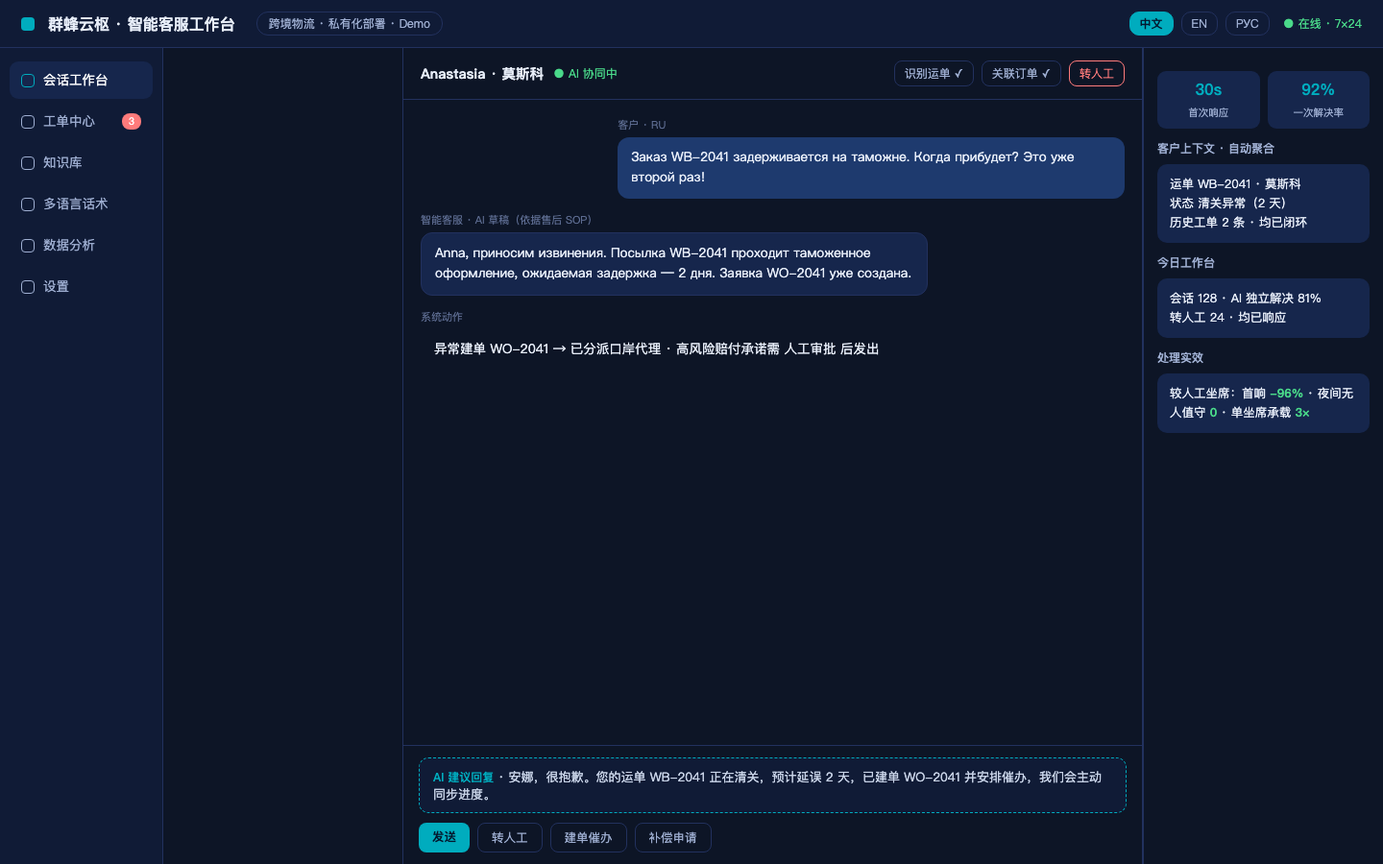
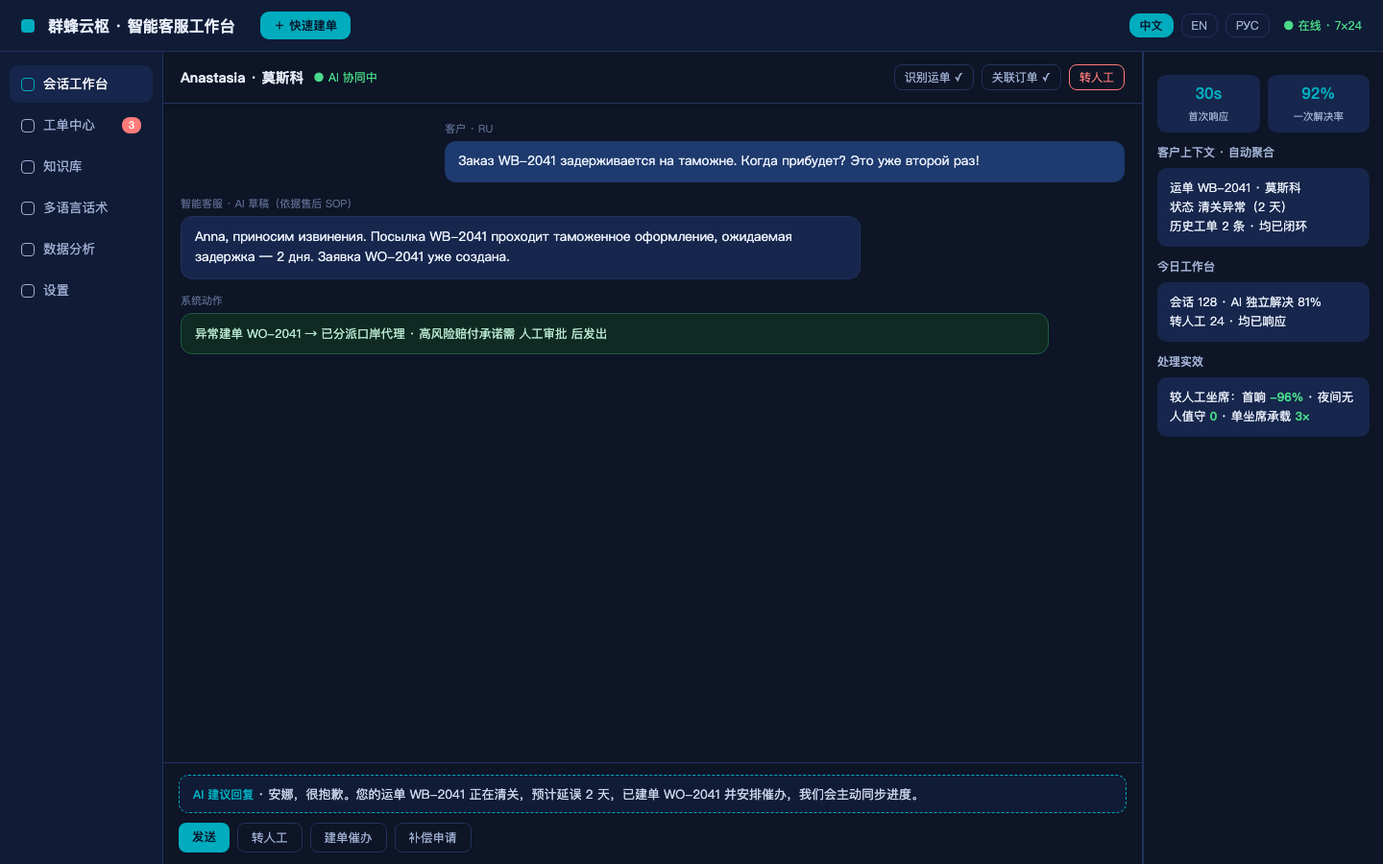
feat(demos): scenario-1-cs 数据分析视图 + AI 快速建单（去空栏/去 head 标语）

diff --git a/demos/scenario-1-cs.html b/demos/scenario-1-cs.html
@@ -1,40 +1,37 @@
 <!DOCTYPE html><html lang="zh"><head><meta charset="utf-8"><title>群蜂云枢 · 智能客服工作台</title>
 <style>
-:root{--bg:#0D1526;--pan:#101B36;--pan2:#16264C;--bd:#22315E;--ac:#00ACBE;--tx:#E8EEF9;--mut:#9FAFD2}
+:root{--bg:#0D1526;--pan:#101B36;--pan2:#16264C;--bd:#22315E;--ac:#00ACBE;--tx:#E8EEF9;--mut:#9FAFD2;--ok:#4AD98A;--warn:#FF7B7B;--gold:#FFC539}
 *{margin:0;padding:0;box-sizing:border-box;font-family:-apple-system,'PingFang SC','Microsoft YaHei',sans-serif}
 body{background:var(--bg);color:var(--tx);height:100vh;display:flex;flex-direction:column;overflow:hidden}
 .top{display:flex;align-items:center;gap:14px;background:var(--pan);padding:12px 22px;border-bottom:1px solid var(--bd)}
 .logo{width:14px;height:14px;background:var(--ac);border-radius:4px}
-.top b{font-size:16px}.env{font-size:12px;color:var(--mut);border:1px solid var(--bd);border-radius:12px;padding:3px 12px;margin-left:8px}
+.top b{font-size:16px}
 .langs{margin-left:auto;display:flex;gap:8px;font-size:12px}
 .langs span{padding:3px 10px;border-radius:10px;border:1px solid var(--bd);color:var(--mut);cursor:pointer}
 .langs span.on{background:var(--ac);color:#04182E;font-weight:700;border-color:var(--ac)}
-.online{font-size:12px;color:#4AD98A}
+.online{font-size:12px;color:var(--ok)}
+.qbtn{font-size:12.5px;font-weight:700;background:var(--ac);color:#04182E;border-radius:9px;padding:6px 14px;cursor:pointer;margin-left:12px}
+.qbtn:hover{filter:brightness(1.08)}
 .wrap{display:flex;flex:1;min-height:0}
 .side{width:170px;background:var(--pan);border-right:1px solid var(--bd);padding:14px 10px}
 .side div{display:flex;align-items:center;gap:9px;padding:10px 12px;border-radius:9px;font-size:13.5px;color:var(--mut);margin-bottom:4px;cursor:pointer}
-.side div i{width:14px;height:14px;border:1.6px solid var(--mut);border-radius:4px}
-.side div.on{background:#16264C;color:#fff}.side div.on i{border-color:var(--ac)}
-.side div .bdg{margin-left:auto;background:#FF7B7B;color:#fff;font-size:10.5px;border-radius:8px;padding:1px 7px}
-.conv{width:250px;border-right:1px solid var(--bd);overflow:auto;padding:12px}
-.cv{background:var(--pan2);border-radius:12px;padding:12px 14px;margin-bottom:10px;cursor:pointer}
-.cv.on{border:1px solid var(--ac)}
-.cv .n{font-size:13.5px;font-weight:700}.cv .n i{font-style:normal;font-size:10.5px;color:#0D1526;background:#FFC539;border-radius:6px;padding:1px 6px;margin-left:6px;font-weight:700}
-.cv .m{font-size:12px;color:var(--mut);margin-top:5px;white-space:nowrap;overflow:hidden;text-overflow:ellipsis}
-.cv .t{font-size:11px;color:#5E6D92;margin-top:4px}
-.chat{flex:1;display:flex;flex-direction:column;border-right:1px solid var(--bd)}
+.side div i{width:14px;height:14px;border:1.6px solid var(--mut);border-radius:4px;flex:none}
+.side div.on{background:var(--pan2);color:#fff}.side div.on i{border-color:var(--ac)}
+.side div .bdg{margin-left:auto;background:var(--warn);color:#fff;font-size:10.5px;border-radius:8px;padding:1px 7px}
+.view{flex:1;display:flex;min-width:0}
+.chat{flex:1;display:flex;flex-direction:column;border-right:1px solid var(--bd);min-width:0}
 .chead{padding:13px 18px;border-bottom:1px solid var(--bd);display:flex;align-items:center;gap:10px}
-.chead b{font-size:14.5px}.chead .st{font-size:12px;color:#4AD98A}
+.chead b{font-size:14.5px}.chead .st{font-size:12px;color:var(--ok)}
 .chead .act{margin-left:auto;display:flex;gap:8px}
 .chead .act span{font-size:12px;border:1px solid var(--bd);border-radius:8px;padding:4px 10px;color:var(--mut);cursor:pointer}
-.chead .act span.hot{border-color:#FF7B7B;color:#FF7B7B}
+.chead .act span.hot{border-color:var(--warn);color:var(--warn)}
 .msgs{flex:1;padding:18px;overflow:auto}
 .m{max-width:72%;margin-bottom:14px;font-size:13.5px;line-height:1.55}
 .m .who{font-size:11px;color:#5E6D92;margin-bottom:4px}
 .m .b{border-radius:12px;padding:11px 14px}
 .m.cu{margin-left:auto}.m.cu .b{background:#1E3A6E}
 .m.ai .b{background:var(--pan2);border:1px solid var(--bd)}
-.m.ai .sop{margin-top:8px;font-size:11.5px;color:#4AD98A}
+.m.sys{max-width:92%}.m.sys .b{background:#0F2A22;border:1px solid #1F5C44;color:#B9E8D2;font-size:12.5px}
 .composer{border-top:1px solid var(--bd);padding:12px 16px}
 .ai-draft{background:var(--pan);border:1px dashed var(--ac);border-radius:10px;padding:10px 14px;font-size:13px;color:#C9D4E8;margin-bottom:10px}
 .ai-draft b{color:var(--ac);font-size:12px}
@@ -49,26 +46,103 @@ body{background:var(--bg);color:var(--tx);height:100vh;display:flex;flex-directi
 .strips{display:flex;gap:8px;margin-top:10px}
 .strip{flex:1;background:var(--pan2);border-radius:9px;padding:8px;text-align:center}
 .strip b{display:block;font-size:16px;color:var(--ac)}.strip span{font-size:10.5px;color:var(--mut)}
-.toast{position:fixed;right:24px;bottom:24px;background:var(--ac);color:#04182E;font-weight:700;font-size:13px;border-radius:10px;padding:10px 18px;display:none}
+/* ─── 数据分析视图 ─── */
+.dwrap{flex:1;display:flex;flex-direction:column;gap:12px;padding:14px 16px;min-width:0;overflow:auto}
+.dhead{display:flex;align-items:baseline;gap:12px}
+.dhead b{font-size:16px}.dhead span{font-size:12px;color:var(--mut)}
+.rng{margin-left:auto;display:flex;border:1px solid var(--bd);border-radius:9px;overflow:hidden}
+.rng span{font-size:12px;padding:5px 14px;color:var(--mut);cursor:pointer}
+.rng span.on{background:var(--ac);color:#04182E;font-weight:700}
+.kpis{display:grid;grid-template-columns:repeat(4,1fr);gap:12px}
+.kpi{background:var(--pan2);border:1px solid transparent;border-radius:12px;padding:12px 16px;transition:transform .15s,border-color .15s}
+.kpi:hover{transform:translateY(-2px);border-color:var(--bd)}
+.kpi .l{font-size:12px;color:var(--mut)}
+.kpi .v{font-size:26px;font-weight:700;margin:4px 0 2px}
+.kpi .v small{font-size:13px;font-weight:500;color:var(--mut);margin-left:2px}
+.kpi .d{font-size:11.5px}.kpi .d.up{color:var(--ok)}.kpi .d.dn{color:var(--warn)}
+.kpi .d.good{color:var(--ok)}
+.dgrid{flex:1;display:grid;grid-template-columns:1.65fr 1fr;grid-template-rows:1.05fr 1fr;gap:12px;min-height:540px}
+.pane{background:var(--pan2);border-radius:12px;padding:12px 14px;display:flex;flex-direction:column;min-height:0}
+.pane h5{font-size:13px;font-weight:600;display:flex;align-items:center;gap:8px}
+.pane h5 em{font-style:normal;font-size:11px;color:var(--mut);font-weight:400}
+.legend{margin-left:auto;display:flex;gap:12px;font-size:11.5px;color:var(--mut)}
+.legend span{cursor:pointer;display:flex;align-items:center;gap:5px}
+.legend i{width:9px;height:9px;border-radius:3px;display:inline-block}
+.legend span.off{opacity:.38}
+.legend span:not(.off){color:#C9D4E8}
+.tbox{flex:1;position:relative;min-height:0}
+.tbox svg{display:block}
+.tip{position:absolute;pointer-events:none;background:#0A1224;border:1px solid var(--bd);border-radius:8px;padding:7px 10px;font-size:11.5px;line-height:1.7;display:none;white-space:nowrap;z-index:5;box-shadow:0 6px 18px rgba(0,0,0,.4)}
+.tip b{color:#fff}
+.dfoot{font-size:10.5px;color:#5E6D92;margin-top:2px}
+.bars{flex:1;display:flex;align-items:flex-end;gap:14px;padding:8px 6px 0;min-height:0}
+.bwrap{flex:1;display:flex;flex-direction:column;align-items:center;gap:6px;height:100%;justify-content:flex-end;cursor:pointer}
+.bwrap .bv{font-size:12px;color:#C9D4E8;font-weight:600}
+.bwrap .bar{width:70%;max-width:44px;background:var(--ac);border-radius:6px 6px 2px 2px;opacity:.42;transition:opacity .15s,height .4s}
+.bwrap.sel .bar{opacity:1}
+.bwrap:hover .bar{opacity:.85}
+.bwrap.sel .bv{color:#fff}
+.bwrap .bn{font-size:11px;color:var(--mut);white-space:nowrap}
+.dpanel{gap:10px}
+.dpanel .dt{font-size:14px;font-weight:700}
+.dpanel .row{display:flex;justify-content:space-between;font-size:12.5px;padding:7px 2px;border-bottom:1px dashed #22315E}
+.dpanel .row span{color:var(--mut)}
+.dpanel .row b{color:#fff}
+.dpanel .act{font-size:12px;line-height:1.7;color:#B9E8D2;background:#0F2A22;border-left:3px solid var(--ok);border-radius:6px;padding:8px 10px;margin-top:2px}
+.donutbox{flex:1;display:flex;align-items:center;gap:10px;min-height:0}
+.dcenter{position:absolute;text-align:center;pointer-events:none}
+.dcenter b{font-size:22px}.dcenter span{display:block;font-size:10.5px;color:var(--mut)}
+.dl{flex:1;font-size:12px}
+.dl div{display:flex;align-items:center;gap:7px;padding:5px 2px;cursor:pointer;border-radius:6px}
+.dl div:hover{background:#1B2C55}
+.dl i{width:9px;height:9px;border-radius:3px;flex:none}
+.dl span{color:var(--mut)}.dl b{margin-left:auto;color:#fff}
+/* ─── 建单弹层 ─── */
+.ovl{position:fixed;inset:0;background:rgba(4,10,24,.66);display:none;align-items:center;justify-content:center;z-index:50}
+.ovl.show{display:flex}
+.modal{width:580px;max-height:88vh;overflow:auto;background:var(--pan);border:1px solid var(--bd);border-radius:14px;padding:18px 20px;box-shadow:0 18px 50px rgba(0,0,0,.5)}
+.mhd{display:flex;align-items:center;margin-bottom:12px}
+.mhd b{font-size:15px}
+.mhd .x{margin-left:auto;color:var(--mut);cursor:pointer;font-size:16px;padding:2px 8px}
+.aibar{display:flex;align-items:center;gap:8px;font-size:12px;color:var(--ac);background:rgba(0,172,190,.08);border:1px dashed var(--ac);border-radius:9px;padding:8px 12px;margin-bottom:14px}
+.aibar.done{color:#B9E8D2;border-color:#1F5C44;background:#0F2A22;border-style:solid}
+.shim{flex:none;width:60px;height:6px;border-radius:3px;background:linear-gradient(90deg,rgba(0,172,190,.15),rgba(0,172,190,.65),rgba(0,172,190,.15));background-size:200% 100%;animation:sh 1s linear infinite}
+@keyframes sh{from{background-position:200% 0}to{background-position:-200% 0}}
+.fgrid{display:grid;grid-template-columns:1fr 1fr;gap:10px 12px}
+.fi label{display:block;font-size:11.5px;color:var(--mut);margin-bottom:5px}
+.fi input,.fi textarea{width:100%;background:var(--pan2);border:1px solid var(--bd);border-radius:8px;color:var(--tx);font-size:12.5px;padding:7px 10px;outline:none;font-family:inherit}
+.fi input:focus,.fi textarea:focus{border-color:var(--ac)}
+.fi .full{grid-column:1/-1}
+.chips{display:flex;gap:6px;flex-wrap:wrap}
+.chips span{font-size:11.5px;border:1px solid var(--bd);border-radius:8px;padding:4px 10px;color:var(--mut);cursor:pointer}
+.chips span.on{border-color:var(--ac);color:var(--ac);background:rgba(0,172,190,.1);font-weight:700}
+.chips span.on.hi{border-color:var(--warn);color:var(--warn);background:rgba(255,123,123,.08)}
+.chips span.on.md{border-color:var(--gold);color:var(--gold);background:rgba(255,197,57,.08)}
+.mft{display:flex;gap:8px;margin-top:16px;align-items:center}
+.mft .note{font-size:11px;color:#5E6D92;margin-right:auto}
+.mfade{opacity:0;transform:translateY(4px);transition:opacity .3s,transform .3s}
+.mfade.in{opacity:1;transform:none}
+.toast{position:fixed;right:24px;bottom:24px;background:var(--ac);color:#04182E;font-weight:700;font-size:13px;border-radius:10px;padding:10px 18px;display:none;z-index:99}
 </style></head><body>
-<div class="top"><div class="logo"></div><b>群蜂云枢 · 智能客服工作台</b><span class="env">跨境物流 · 私有化部署 · Demo</span>
+<div class="top"><div class="logo"></div><b>群蜂云枢 · 智能客服工作台</b><span class="qbtn" onclick="openTicket()">＋ 快速建单</span>
 <div class="langs"><span class="on" data-l="zh">中文</span><span data-l="en">EN</span><span data-l="ru">РУС</span></div><span class="online">● 在线 · 7×24</span></div>
 <div class="wrap">
-<div class="side">
-<div class="on"><i></i>会话工作台</div>
-<div><i></i>工单中心<span class="bdg">3</span></div>
-<div><i></i>知识库</div>
-<div><i></i>多语言话术</div>
-<div><i></i>数据分析</div>
-<div><i></i>设置</div></div>
-<div class="conv" id="clist"></div>
+<div class="side" id="side">
+<div class="on" data-v="chat"><i></i>会话工作台</div>
+<div data-v="none"><i></i>工单中心<span class="bdg" id="woBdg">3</span></div>
+<div data-v="none"><i></i>知识库</div>
+<div data-v="none"><i></i>多语言话术</div>
+<div data-v="data"><i></i>数据分析</div>
+<div data-v="none"><i></i>设置</div></div>
+
+<div class="view" id="viewChat">
 <div class="chat">
 <div class="chead"><b id="cname">—</b><span class="st">● AI 协同中</span>
 <div class="act"><span>识别运单 ✓</span><span>关联订单 ✓</span><span class="hot" onclick="transfer()">转人工</span></div></div>
 <div class="msgs" id="msgs"></div>
 <div class="composer">
 <div class="ai-draft" id="draft"><b>AI 建议回复</b> · <span id="draftBody">—</span></div>
-<div class="btns"><span class="send" onclick="send()">发送</span><span class="ghost" onclick="transfer()">转人工</span><span class="ghost">建单催办</span><span class="ghost">补偿申请</span></div></div></div>
+<div class="btns"><span class="send" onclick="send()">发送</span><span class="ghost" onclick="transfer()">转人工</span><span class="ghost" onclick="openTicket()">建单催办</span><span class="ghost">补偿申请</span></div></div></div>
 <div class="ctx">
 <div class="strips"><div class="strip"><b>30s</b><span>首次响应</span></div><div class="strip"><b>92%</b><span>一次解决率</span></div></div>
 <h4>客户上下文 · 自动聚合</h4>
@@ -76,9 +150,47 @@ body{background:var(--bg);color:var(--tx);height:100vh;display:flex;flex-directi
 <h4>今日工作台</h4>
 <div class="card">会话 128 · AI 独立解决 81%<br>转人工 24 · 均已响应</div>
 <h4>处理实效</h4>
-<div class="card">较人工坐席：首响 <b style="color:#4AD98A">-96%</b> · 夜间无人值守 <b style="color:#4AD98A">0</b> · 单坐席承载 <b style="color:#4AD98A">3×</b></div></div>
+<div class="card">较人工坐席：首响 <b style="color:var(--ok)">-96%</b> · 夜间无人值守 <b style="color:var(--ok)">0</b> · 单坐席承载 <b style="color:var(--ok)">3×</b></div></div>
 </div>
-<div class="toast" id="toast">已转人工 · 专员 张敏 接手</div>
+
+<div class="view" id="viewData" style="display:none">
+<div class="dwrap">
+<div class="dhead"><b>数据分析</b><span>全渠道客服效能 · IM / 邮件 / 工单实时聚合</span>
+<div class="rng"><span class="on" data-r="7d">近 7 天</span><span data-r="30d">近 30 天</span></div></div>
+<div class="kpis" id="kpis"></div>
+<div class="dgrid">
+<div class="pane"><h5>处理时长趋势<em>客诉处理 · 异常闭环（小时）</em>
+<div class="legend" id="trendLeg"></div></h5><div class="tbox" id="trendBox"><div class="tip" id="tip"></div></div></div>
+<div class="pane"><h5>解决构成<em>本期会话占比</em></h5>
+<div class="donutbox"><div style="position:relative;flex:none" id="donutBox"></div><div class="dl" id="donutLg"></div></div>
+<div class="dfoot">自助解决 = AI 全程独立办结，无需人工介入</div></div>
+<div class="pane"><h5>客诉类型分布<em>点击类型查看明细</em></h5>
+<div class="bars" id="bars"></div></div>
+<div class="pane dpanel" id="dpanel"></div>
+</div>
+<div class="dfoot">示意数据 · 口径：处理时长 = 首次响应 → 解决；闭环时长 = 建单 → 客户确认；满意度 = 会话结束评价均值（5 分制）</div>
+</div></div>
+</div>
+
+<div class="ovl" id="ovl"><div class="modal">
+<div class="mhd"><b>AI 快速建单</b><span class="x" onclick="closeTicket()">✕</span></div>
+<div class="aibar" id="aibar"><div class="shim" id="shim"></div><span id="aibarTx">AI 正在分析会话上下文…</span></div>
+<div class="fgrid mfade" id="mform">
+<div class="fi"><label>客户</label><input id="fCu"></div>
+<div class="fi"><label>关联单号</label><input id="fRef"></div>
+<div class="fi full"><label>问题类型</label><div class="chips" id="fType"></div></div>
+<div class="fi full"><label>优先级</label><div class="chips" id="fPri"></div></div>
+<div class="fi full"><label>工单标题</label><input id="fTitle"></div>
+<div class="fi full"><label>问题描述</label><textarea id="fDesc" rows="3"></textarea></div>
+<div class="fi full"><label>AI 建议处置</label><div class="dpanel" style="background:transparent;padding:0"><div class="act" id="fAct"></div></div></div>
+</div>
+<div class="mft"><span class="note">AI 生成内容可编辑 · 创建后自动分派并同步客户</span>
+<span class="ghost" style="font-size:12.5px;border:1px solid var(--bd);border-radius:8px;padding:6px 14px;cursor:pointer" onclick="genTicket()">↻ 重新生成</span>
+<span class="ghost" style="font-size:12.5px;border:1px solid var(--bd);border-radius:8px;padding:6px 14px;cursor:pointer" onclick="closeTicket()">取消</span>
+<span class="send" style="font-size:12.5px;border-radius:8px;padding:6px 16px;cursor:pointer" onclick="createTicket()">创建工单</span></div>
+</div></div>
+<div class="toast" id="toast"></div>
+
 <script>
 const DATA={
  c1:{n:"Anastasia · 莫斯科",tag:"RU",ctx:"运单 WB-2041 · 莫斯科<br>状态 清关异常（2 天）<br>历史工单 2 条 · 均已闭环",
@@ -102,19 +214,161 @@ const DATA={
  drafts:{zh:"已为您重开 VAT 发票 #8821-V2（地址已更正），将发送至您的邮箱。",
  en:"VAT invoice #8821-V2 has been re-issued with the corrected address and sent to your email.",
  ru:"VAT invoice #8821-V2 re-issued with corrected address, sent to your email."}}};
+
+const WO={
+ c1:{cu:"Anastasia · 莫斯科（RU）",ref:"运单 WB-2041",type:"清关异常",pri:"高",
+ title:"WB-2041 莫斯科清关异常 2 天 · 客户二次进线",
+ desc:"客户反馈运单 WB-2041 清关滞留 2 天，为该客户历史第 2 次异常，情绪升级并要求明确送达时间，建议按赔付预审流程处理。",
+ act:"口岸代理催办（2h 内答复）→ 高风险赔付预审（需人工审批）→ 主动同步清关进度至客户"},
+ c2:{cu:"张先生 · 马德里（ES）",ref:"运单 SB-8871",type:"末端延误",pri:"中",
+ title:"SB-8871 马德里末端派送 3 天未妥投",
+ desc:"包裹 SB-8871 进入末端派送已 3 天未妥投，客户催问送达时间；AI 已发起末端催办，若 24h 内仍未妥投将自动转申诉。",
+ act:"末端网点催办 → 24h 未妥投自动申诉 → 向客户同步预计送达窗口"},
+ c3:{cu:"李女士 · 汉堡（EN）",ref:"订单 #8821",type:"发票账单",pri:"低",
+ title:"#8821 VAT 发票地址错误 · 申请重开",
+ desc:"客户申请重开 VAT 发票（原发票收件地址错误）；AI 已完成 #8821-V2 重开、地址更正并同步 ERP，待客户邮箱确认。",
+ act:"ERP 自动重开发票 → 邮件送达 → 次日自动回访确认"}};
+
+/* ───────── 数据分析 ───────── */
+const AN={
+ "7d":{kpi:[["客诉处理时长","4.2","h","较上周 -38%",1],["自助解决率","81","%","较上周 +6pt",1],["客户满意度","4.7","/5","较上周 +0.3",1],["异常闭环时长","18.5","h","较上周 -42%",1]],
+  days:["09-17","09-18","09-19","09-20","09-21","09-22","09-23"],
+  handle:[6.8,6.1,5.4,4.9,4.6,4.4,4.2],loop:[30,28,26,23,21,19.5,18.5],
+  types:[["清关异常",34],["末端延误",27],["退换货",18],["发票账单",13],["其他",8]],
+  solve:[["AI 自助解决",81,"#00ACBE"],["AI 起草 · 人工发出",15,"#5D93D8"],["转人工",4,"#9FAFD2"]]},
+ "30d":{kpi:[["客诉处理时长","5.8","h","较上月 -31%",1],["自助解决率","78","%","较上月 +9pt",1],["客户满意度","4.6","/5","较上月 +0.4",1],["异常闭环时长","24.6","h","较上月 -38%",1]],
+  days:Array.from({length:30},(_,i)=>{const d=new Date(2026,8,23-29+i);return (d.getMonth()+1)+"-"+d.getDate()}),
+  handle:Array.from({length:30},(_,i)=>+(9.5-3.7*i/29+(i%3?0.3:-0.2)).toFixed(1)),
+  loop:Array.from({length:30},(_,i)=>+(46-21.4*i/29+(i%4?1.5:-1)).toFixed(1)),
+  types:[["清关异常",142],["末端延误",118],["退换货",76],["发票账单",52],["其他",33]],
+  solve:[["AI 自助解决",78,"#00ACBE"],["AI 起草 · 人工发出",17,"#5D93D8"],["转人工",5,"#9FAFD2"]]}};
+AN["30d"].handle[29]=5.8;AN["30d"].loop[29]=24.6;
+const TYPE_DETAIL={
+ "清关异常":{avg:"5.1 h",loop:"22 h",sop:"92%",act:"口岸代理催办（2h 答复）→ 赔付预审（人工审批）→ 主动同步进度"},
+ "末端延误":{avg:"3.2 h",loop:"14 h",sop:"95%",act:"自动催办末端网点 → 24h 未妥投自动申诉 → 同步送达窗口"},
+ "退换货":{avg:"2.8 h",loop:"12 h",sop:"89%",act:"退货预审 → 换货补发自动下单 → 物流跟踪回传"},
+ "发票账单":{avg:"1.6 h",loop:"6 h",sop:"97%",act:"ERP 自动重开 → 邮件送达 → 回访确认"},
+ "其他":{avg:"2.4 h",loop:"9 h",sop:"84%",act:"知识库兜底应答 → 低置信自动转人工"}};
+const C_BLUE="#5D93D8",C_ORN="#F5A455";
+let range="7d",selType="清关异常",showH=true,showL=true,dataDrawn=false;
+
+function tween(el,from,to,dec){const t0=performance.now();
+ (function f(t){const p=Math.min(1,(t-t0)/450),e=1-Math.pow(1-p,3);
+  el.textContent=(from+(to-from)*e).toFixed(dec);if(p<1)requestAnimationFrame(f)})(t0)}
+function renderKpis(){const box=document.getElementById("kpis");const k=AN[range].kpi;
+ box.innerHTML=k.map(x=>`<div class="kpi"><div class="l">${x[0]}</div><div class="v"><span>0</span><small>${x[2]}</small></div><div class="d ${x[4]?"good":"dn"}">${/-/.test(x[3])?"▼ ":"▲ "}${x[3]}</div></div>`).join("");
+ box.querySelectorAll(".v span").forEach((s,i)=>{const to=parseFloat(k[i][1]);tween(s,0,to,to%1?1:0)});}
+function svgEl(w,h){const s=document.createElementNS("http://www.w3.org/2000/svg","svg");s.setAttribute("width",w);s.setAttribute("height",h);return s}
+function renderTrend(){const box=document.getElementById("trendBox");const tip=document.getElementById("tip");
+ box.querySelectorAll("svg").forEach(x=>x.remove());
+ const W=box.clientWidth||600,H=box.clientHeight||220,P={l:34,r:52,t:12,b:24};
+ const svg=svgEl(W,H);const a=AN[range];const n=a.days.length;
+ const mx=range==="7d"?32:48,y=v=>P.t+(H-P.t-P.b)*(1-v/mx),x=i=>P.l+(W-P.l-P.r)*(n<2?0:i/(n-1));
+ for(let g=0;g<=4;g++){const gy=y(g*mx/4);
+  svg.innerHTML+=`<line x1="${P.l}" y1="${gy}" x2="${W-P.r}" y2="${gy}" stroke="#22315E" stroke-dasharray="3 4" stroke-width="1"/>`+
+  `<text x="${P.l-7}" y="${gy+3.5}" fill="#5E6D92" font-size="10" text-anchor="end">${g*mx/4}</text>`}
+ const step=n>10?5:1;
+ a.days.forEach((d,i)=>{if(i%step===0||i===n-1)svg.innerHTML+=`<text x="${x(i)}" y="${H-7}" fill="#5E6D92" font-size="10" text-anchor="middle">${d}</text>`});
+ const line=(arr,color,vis)=>{if(!vis)return"";
+  let p=`<polyline fill="none" stroke="${color}" stroke-width="2.5" stroke-linejoin="round" stroke-linecap="round" points="`;
+  p+=arr.map((v,i)=>x(i)+","+y(v)).join(" ")+`"/>`;
+  p+=arr.map((v,i)=>`<circle cx="${x(i)}" cy="${y(v)}" r="3" fill="#101B36" stroke="${color}" stroke-width="2"/>`).join("");
+  p+=`<text x="${x(n-1)+8}" y="${y(arr[n-1])+4}" fill="${color}" font-size="11" font-weight="700">${arr[n-1]}h</text>`;
+  return p};
+ svg.innerHTML+=line(a.handle,C_BLUE,showH)+line(a.loop,C_ORN,showL);
+ const guide=`<line id="gline" x1="0" y1="${P.t}" x2="0" y2="${H-P.b}" stroke="#3A4C7E" stroke-width="1" visibility="hidden"/>`;
+ svg.innerHTML+=guide;box.appendChild(svg);
+ const gl=svg.querySelector("#gline");
+ svg.onmousemove=e=>{const r=svg.getBoundingClientRect();const i=Math.max(0,Math.min(n-1,Math.round((e.clientX-r.left-P.l)/((W-P.l-P.r)/(n-1)))));
+  gl.setAttribute("x1",x(i));gl.setAttribute("x2",x(i));gl.setAttribute("visibility","visible");
+  tip.style.display="block";const bx=box.getBoundingClientRect();
+  tip.style.left=Math.min(x(i)+12,bx.width-150)+"px";tip.style.top=(e.clientY-bx.top-14)+"px";
+  tip.innerHTML=`<b>${a.days[i]}</b><br>`+(showH?`<span style="color:${C_BLUE}">●</span> 客诉处理 ${a.handle[i]}h<br>`:"")+(showL?`<span style="color:${C_ORN}">●</span> 异常闭环 ${a.loop[i]}h`:"")};
+ svg.onmouseleave=()=>{gl.setAttribute("visibility","hidden");tip.style.display="none"}}
+function renderLegend(){const lg=document.getElementById("trendLeg");
+ lg.innerHTML=`<span data-s="h" class="${showH?"":"off"}"><i style="background:${C_BLUE}"></i>客诉处理时长</span>
+ <span data-s="l" class="${showL?"":"off"}"><i style="background:${C_ORN}"></i>异常闭环时长</span>`;
+ lg.querySelectorAll("span").forEach(s=>s.onclick=()=>{if(s.dataset.s==="h")showH=!showH;else showL=!showL;renderLegend();renderTrend()})}
+function renderDonut(){const box=document.getElementById("donutBox");box.innerHTML="";
+ const S=Math.min(box.parentElement.clientHeight-6,150),R=S/2-8,C=2*Math.PI*R,cx=S/2,cy=S/2;
+ const sol=AN[range].solve;let off=0;const svg=svgEl(S,S);
+ sol.forEach((sg,i)=>{const len=C*sg[1]/100;
+  svg.innerHTML+=`<circle data-i="${i}" cx="${cx}" cy="${cy}" r="${R}" fill="none" stroke="${sg[2]}" stroke-width="17" stroke-dasharray="${len-2} ${C-len+2}" stroke-dashoffset="${-off}" transform="rotate(-90 ${cx} ${cy})" style="cursor:pointer;transition:opacity .15s"><title>${sg[0]} ${sg[1]}%</title></circle>`;
+  off+=len});
+ svg.innerHTML+=`<g class="dctr" transform="translate(${cx},${cy})" style="pointer-events:none"><text text-anchor="middle" y="2" fill="#E8EEF9" font-size="24" font-weight="700">${sol[0][1]}%</text><text text-anchor="middle" y="19" fill="#9FAFD2" font-size="10.5">自助解决</text></g>`;
+ box.appendChild(svg);
+ const ctr=svg.querySelector(".dctr");
+ svg.querySelectorAll("circle").forEach(c=>{c.onmouseenter=()=>{const sg=sol[+c.dataset.i];
+  ctr.querySelectorAll("text")[0].textContent=sg[1]+"%";ctr.querySelectorAll("text")[1].textContent=sg[0];
+  c.style.opacity=1;svg.querySelectorAll("circle").forEach(o=>{if(o!==c)o.style.opacity=.45})};
+  c.onmouseleave=()=>{ctr.querySelectorAll("text")[0].textContent=sol[0][1]+"%";ctr.querySelectorAll("text")[1].textContent="自助解决";
+  svg.querySelectorAll("circle").forEach(o=>o.style.opacity=1)}});
+ const lg=document.getElementById("donutLg");
+ lg.innerHTML=sol.map(sg=>`<div><i style="background:${sg[2]}"></i><span>${sg[0]}</span><b>${sg[1]}%</b></div>`).join("")}
+function renderBars(){const box=document.getElementById("bars");const t=AN[range].types;const mx=Math.max(...t.map(x=>x[1]));
+ box.innerHTML=t.map(x=>`<div class="bwrap ${x[0]===selType?"sel":""}" data-t="${x[0]}"><div class="bv">${x[1]}</div><div class="bar" style="height:${Math.max(8,x[1]/mx*100)}%"></div><div class="bn">${x[0]}</div></div>`).join("");
+ box.querySelectorAll(".bwrap").forEach(b=>b.onclick=()=>{selType=b.dataset.t;renderBars();renderDetail()})}
+function renderDetail(){const d=TYPE_DETAIL[selType];const t=AN[range].types.find(x=>x[0]===selType);
+ const tot=AN[range].types.reduce((s,x)=>s+x[1],0);
+ document.getElementById("dpanel").innerHTML=`<div class="dt">${selType} <span style="font-size:11.5px;color:var(--mut);font-weight:400">· 占比 ${Math.round(t[1]/tot*100)}%</span></div>
+ <div class="row"><span>平均处理时长</span><b>${d.avg}</b></div>
+ <div class="row"><span>平均闭环时长</span><b>${d.loop}</b></div>
+ <div class="row"><span>SOP 命中率</span><b>${d.sop}</b></div>
+ <div class="row"><span>本期工单量</span><b>${t[1]} 单</b></div>
+ <div style="font-size:11.5px;color:var(--mut)">AI 标准处置链路</div><div class="act">${d.act}</div>`}
+function renderData(){renderKpis();renderLegend();renderTrend();renderDonut();renderBars();renderDetail();dataDrawn=true}
+
+/* ───────── 视图/菜单 ───────── */
+document.querySelectorAll("#side div").forEach(d=>d.onclick=()=>{
+ if(d.dataset.v==="none"){toast("Demo 演示 · 该模块未开放");return}
+ document.querySelectorAll("#side div").forEach(x=>x.classList.remove("on"));d.classList.add("on");
+ const v=d.dataset.v;document.getElementById("viewChat").style.display=v==="chat"?"flex":"none";
+ document.getElementById("viewData").style.display=v==="data"?"flex":"none";
+ if(v==="data"&&!dataDrawn)renderData();else if(v==="data")renderData()});
+document.querySelectorAll(".rng span").forEach(s=>s.onclick=()=>{
+ document.querySelectorAll(".rng span").forEach(x=>x.classList.remove("on"));s.classList.add("on");range=s.dataset.r;renderData()});
+window.addEventListener("resize",()=>{if(document.getElementById("viewData").style.display!=="none"&&dataDrawn){renderTrend();renderDonut()}});
+
+/* ───────── 会话 ───────── */
 let cur="c1",lang="zh";
 function loadC(id){cur=id;const d=DATA[id];
  document.getElementById("cname").textContent=d.n;
  document.getElementById("ctxCard").innerHTML=d.ctx;
- renderMsgs();setDraft();
- document.querySelectorAll(".cv").forEach(e=>e.classList.toggle("on",e.dataset.id===id));}
+ renderMsgs();setDraft()}
 function renderMsgs(){const d=DATA[cur];const box=document.getElementById("msgs");box.innerHTML="";
  d.msgs.forEach(m=>{const div=document.createElement("div");div.className="m "+m[0];
- div.innerHTML=`<div class="who">${m[1]}</div><div class="b">${m[2]}</div>`;box.appendChild(div);});box.scrollTop=box.scrollHeight;}
-function setDraft(){document.getElementById("draftBody").textContent=DATA[cur].drafts[lang];}
+ div.innerHTML=`<div class="who">${m[1]}</div><div class="b">${m[2]}</div>`;box.appendChild(div)});box.scrollTop=box.scrollHeight}
+function setDraft(){document.getElementById("draftBody").textContent=DATA[cur].drafts[lang]}
 function send(){const d=DATA[cur];d.msgs.push(["ai","已发送 · "+({zh:"中文",en:"EN",ru:"РУС"})[lang],d.drafts[lang]]);renderMsgs();
- setTimeout(()=>{d.msgs.push(["cu","客户","OK, thank you! 👍"]);if(cur==="c1")renderMsgs();},900);}
-function transfer(){const t=document.getElementById("toast");t.style.display="block";setTimeout(()=>t.style.display="none",2200);}
-document.querySelectorAll(".langs span").forEach(e=>e.onclick=()=>{document.querySelectorAll(".langs span").forEach(x=>x.classList.remove("on"));e.classList.add("on");lang=e.dataset.l;setDraft();});
+ setTimeout(()=>{d.msgs.push(["cu","客户","OK, thank you! 👍"]);if(cur==="c1")renderMsgs()},900)}
+function transfer(){toast("已转人工 · 专员 张敏 接手")}
+document.querySelectorAll(".langs span").forEach(e=>e.onclick=()=>{document.querySelectorAll(".langs span").forEach(x=>x.classList.remove("on"));e.classList.add("on");lang=e.dataset.l;setDraft()});
+
+/* ───────── 快速建单 ───────── */
+let nextWo=2045,genTimer=null;
+const TYPE_OPTS=["清关异常","末端延误","退换货","发票账单","其他"],PRI_OPTS=["高","中","低"];
+function openTicket(){document.getElementById("ovl").classList.add("show");genTicket()}
+function closeTicket(){document.getElementById("ovl").classList.remove("show");clearTimeout(genTimer)}
+function genTicket(){const w=WO[cur];const bar=document.getElementById("aibar"),tx=document.getElementById("aibarTx"),sh=document.getElementById("shim"),form=document.getElementById("mform");
+ bar.classList.remove("done");sh.style.display="block";tx.textContent="AI 正在分析会话上下文（客户 / 单号 / 情绪 / 历史）…";
+ form.classList.remove("in");
+ genTimer=setTimeout(()=>{sh.style.display="none";bar.classList.add("done");tx.textContent="✓ 已从当前会话提取关键信息，生成工单草稿（可编辑）";
+  document.getElementById("fCu").value=w.cu;document.getElementById("fRef").value=w.ref;
+  renderChips("fType",TYPE_OPTS,w.type,"");renderChips("fPri",PRI_OPTS,w.pri,w.pri==="高"?"hi":w.pri==="中"?"md":"");
+  document.getElementById("fTitle").value=w.title;document.getElementById("fDesc").value=w.desc;
+  document.getElementById("fAct").textContent=w.act;
+  form.classList.add("in")},900)}
+function renderChips(id,opts,sel,cls){const box=document.getElementById(id);box.innerHTML="";
+ opts.forEach(o=>{const s=document.createElement("span");s.textContent=o;
+  if(o===sel){s.className="on "+cls}s.onclick=()=>{box.querySelectorAll("span").forEach(x=>x.className="");
+   s.className="on "+(id==="fPri"?(o==="高"?"hi":o==="中"?"md":""):"");};
+  box.appendChild(s)})}
+function createTicket(){const pri=document.querySelector("#fPri .on");const ty=document.querySelector("#fType .on");
+ const wo="WO-"+(nextWo++);closeTicket();
+ const bdg=document.getElementById("woBdg");bdg.textContent=+bdg.textContent+1;
+ DATA[cur].msgs.push(["sys","系统动作","AI 快速建单 "+wo+"（"+(ty?ty.textContent:"")+" · 优先级 "+(pri?pri.textContent:"中")+"）→ 已自动分派处理人 · 已同步客户"]);
+ renderMsgs();toast("✓ 工单 "+wo+" 已创建 · 已自动分派并同步客户")}
+function toast(t){const el=document.getElementById("toast");el.textContent=t;el.style.display="block";
+ clearTimeout(toast._t);toast._t=setTimeout(()=>el.style.display="none",2400)}
 loadC("c1");
 </script></body></html>
